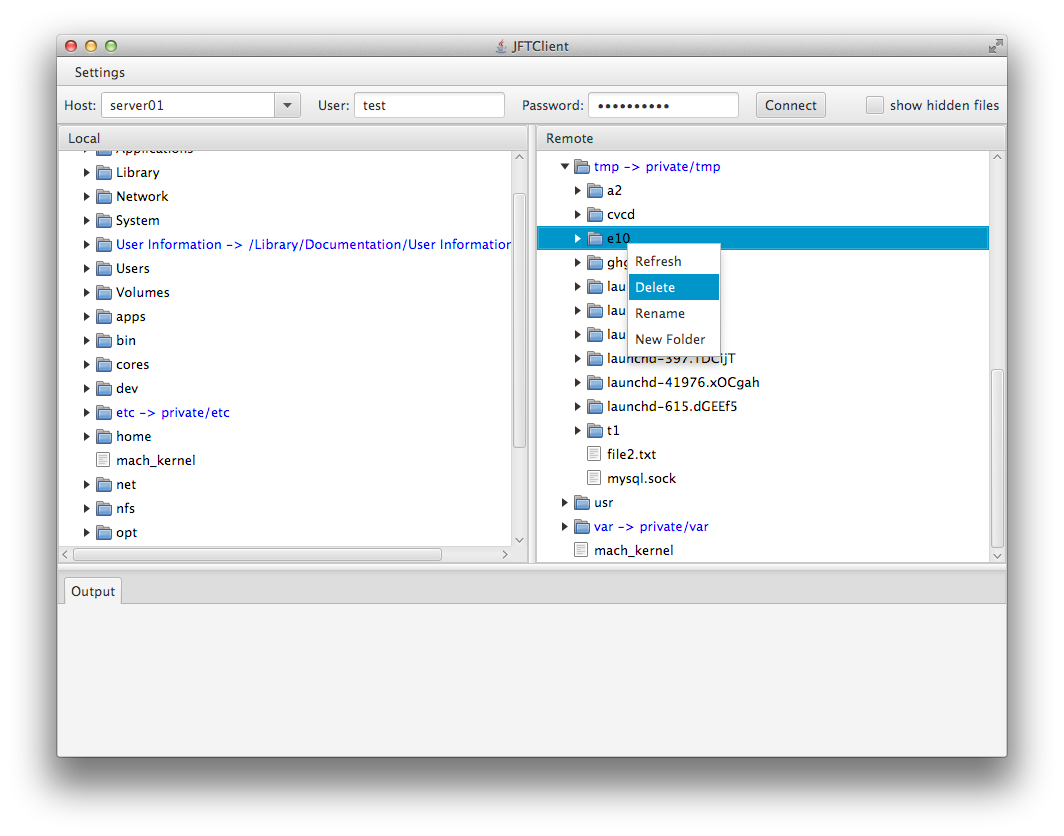
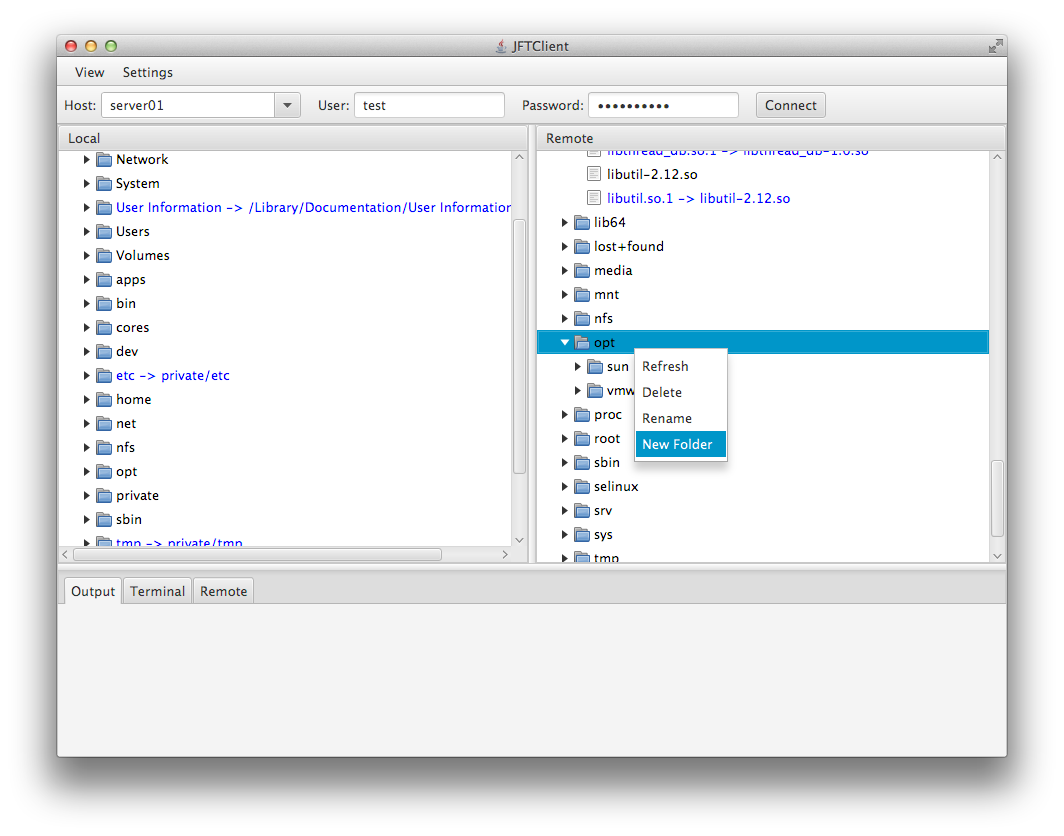
add Edit Hosts menu

diff --git a/src/main/java/org/jftclient/JFTClient.java b/src/main/java/org/jftclient/JFTClient.java
@@ -28,14 +28,17 @@ import com.jcraft.jsch.JSchException;
 import javafx.application.Application;
 import javafx.beans.value.ChangeListener;
 import javafx.beans.value.ObservableValue;
+import javafx.collections.ObservableList;
 import javafx.geometry.Orientation;
 import javafx.scene.Scene;
 import javafx.scene.control.Button;
 import javafx.scene.control.CheckMenuItem;
 import javafx.scene.control.ComboBox;
 import javafx.scene.control.Label;
+import javafx.scene.control.ListView;
 import javafx.scene.control.Menu;
 import javafx.scene.control.MenuBar;
+import javafx.scene.control.MenuItem;
 import javafx.scene.control.PasswordField;
 import javafx.scene.control.SelectionMode;
 import javafx.scene.control.SplitPane;
@@ -52,8 +55,10 @@ import javafx.scene.layout.BorderPane;
 import javafx.scene.layout.HBox;
 import javafx.scene.layout.Priority;
 import javafx.scene.layout.Region;
+import javafx.scene.layout.StackPane;
 import javafx.scene.layout.VBox;
 import javafx.scene.paint.Color;
+import javafx.stage.Modality;
 import javafx.stage.Stage;
 
 /**
@@ -130,7 +135,6 @@ public class JFTClient extends Application {
         VBox topBox = new VBox();
         topBox.getChildren().addAll(menuBar, toolBar);
 
-
         BorderPane borderPane = new BorderPane();
         borderPane.setTop(topBox);
         borderPane.setCenter(splitHorizontal);
@@ -198,8 +202,15 @@ public class JFTClient extends Application {
     private MenuBar createMenu() {
         MenuBar menuBar = new MenuBar();
 
+        Menu menuEdit = new Menu("Edit");
+        MenuItem editHosts = new MenuItem("Hosts");
+
+        editHosts.setOnAction(event -> createEditHostsDialog());
+
+        menuEdit.getItems().add(editHosts);
+
         Menu menuView = new Menu("View");
-        CheckMenuItem cmShowHiddenFiles = new CheckMenuItem("show hidden files");
+        CheckMenuItem cmShowHiddenFiles = new CheckMenuItem("Show hidden files");
         cmShowHiddenFiles.setSelected(configDao.get().isShowHiddenFiles());
 
         cmShowHiddenFiles.selectedProperty().addListener((observable, oldValue, newValue) -> {
@@ -227,8 +238,62 @@ public class JFTClient extends Application {
 
         menuSettings.getItems().addAll(cmSavePasswords);
 
-        menuBar.getMenus().addAll(menuView, menuSettings);
+        menuBar.getMenus().addAll(menuEdit, menuView, menuSettings);
         return menuBar;
+    }
+
+    private void createEditHostsDialog() {
+        Stage dialog = new Stage();
+        dialog.initModality(Modality.WINDOW_MODAL);
+        dialog.initOwner(primaryStage);
+
+
+        ListView<String> listView = new ListView<>();
+        listView.getSelectionModel().setSelectionMode(SelectionMode.MULTIPLE);
+
+        listView.setOnKeyPressed(event -> {
+            if (event.getCode() == KeyCode.DELETE) {
+                ObservableList<String> selectedItems = listView.getSelectionModel().getSelectedItems();
+                if (selectedItems.isEmpty()) {
+                    return;
+                }
+                for (String host : selectedItems) {
+                    Host h = hostDao.getHostByName(host);
+                    hostDao.delete(h);
+                }
+                listView.getItems().setAll(hostDao.getHostNames());
+                hostField.getItems().setAll(hostDao.getHostNames());
+            }
+        });
+
+        listView.getItems().addAll(hostDao.getHostNames());
+
+        listView.setCellFactory(param -> new HostCell(hostDao, hostField));
+
+        StackPane root = new StackPane();
+        root.getChildren().add(listView);
+        Scene dialogScene = new Scene(root);
+
+        dialog.setScene(dialogScene);
+
+        dialog.setHeight(150d);
+        dialog.setWidth(300d);
+        dialog.setTitle("Edit Hosts");
+
+        double x = primaryStage.getX() + primaryStage.getWidth() / 2. - dialog.getWidth() / 2;
+        double y = primaryStage.getY() + primaryStage.getHeight() / 2. - dialog.getHeight() / 2;
+
+        dialog.setX(x);
+        dialog.setY(y);
+
+        String os = System.getProperty("os.name").toLowerCase();
+        if (os.contains("mac")) {
+            //TODO: strange hack on OS X
+            dialog.show();
+            dialog.toFront();
+        } else {
+            dialog.showAndWait();
+        }
     }
 
     private TreeView<Node> createLocalTree() {

diff --git a/src/main/java/org/jftclient/HostCell.java b/src/main/java/org/jftclient/HostCell.java
@@ -1,0 +1,52 @@
+package org.jftclient;
+
+import org.jftclient.config.dao.HostDao;
+import org.jftclient.config.domain.Host;
+
+import javafx.scene.control.ComboBox;
+import javafx.scene.control.ContextMenu;
+import javafx.scene.control.ListCell;
+import javafx.scene.control.MenuItem;
+
+/**
+ * @author smalafeev
+ */
+public class HostCell extends ListCell<String> {
+    private ContextMenu contextMenu;
+    private HostDao hostDao;
+    private ComboBox<String> hostField;
+
+    public HostCell(HostDao hostDao, ComboBox<String> hostField) {
+        this.hostDao = hostDao;
+        this.hostField = hostField;
+
+        MenuItem deleteMenu = new MenuItem("Delete");
+        deleteMenu.setOnAction(event -> {
+            deleteItems();
+        });
+
+        contextMenu = new ContextMenu();
+        contextMenu.getItems().addAll(deleteMenu);
+    }
+
+    @Override
+    public void updateItem(String item, boolean empty) {
+        super.updateItem(item, empty);
+
+        if (!empty && item != null) {
+            setContextMenu(contextMenu);
+        }
+
+        setText(item == null ? null : item);
+        setGraphic(null);
+    }
+
+    private void deleteItems() {
+        for (String host : getListView().getSelectionModel().getSelectedItems()) {
+            Host h = hostDao.getHostByName(host);
+            hostDao.delete(h);
+        }
+        getListView().getItems().setAll(hostDao.getHostNames());
+        hostField.getItems().setAll(hostDao.getHostNames());
+    }
+}
